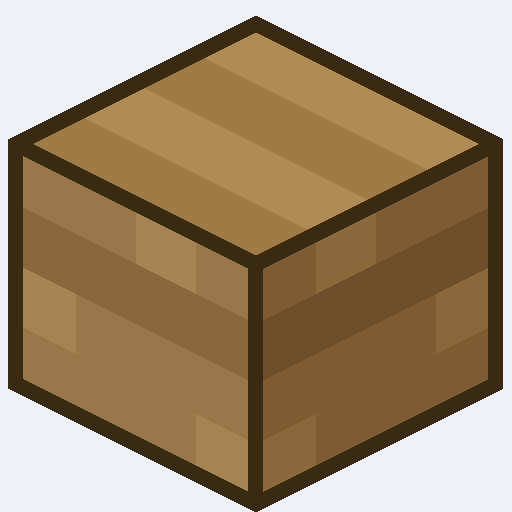
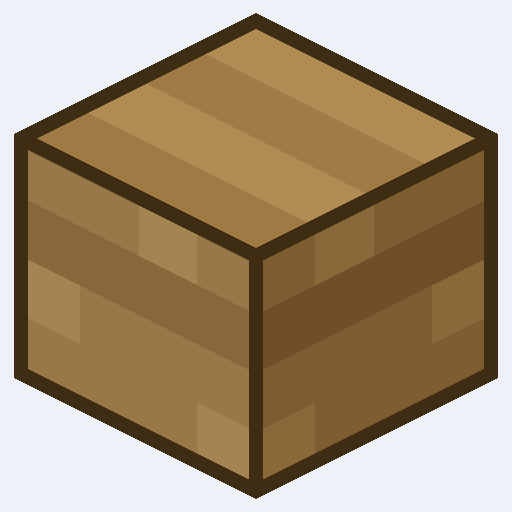
MATH-5: ikona PWA sedí na střed
Ikona na ploše telefonu byla u spodní hrany. Ze tří ikon byla špatná jedna,
a zrovna ta, kterou Android používá: maskovatelná měla kostku o 45 px nízko
(střed y = 301 místo 256). Ikony `any` vycentrované byly, takže na desktopu
ani na iOS se to neprojevilo.

Všechny tři se teď vykreslují z jedné kresby (scripts/cube.mjs, sdílená
i s faviconou) vycentrované na šestiúhelník kostky, takže se nemohou rozejít.
Maskovatelná má kostku 352 px z 512: systém ji obřezává podle svého tvaru
a zaručená je jen kružnice o průměru 80 % plátna, na větší kostku by maska
seřízla horní vrchol. `scripts/icon.mjs` to SVG vypíše, ať jde ikona kdykoli
vyrobit znovu.

Jméno cache service workeru je nově hash obsahu všech předcachovaných souborů,
ne jen jejich jmen. Ikony ani manifest hash v názvu nemají, takže po opravě
ikony by jméno cache zůstalo stejné, SW by se nepřeinstaloval a lidem by
zůstala stará ikona. Ikony v manifestu mají navíc ?v=2, aby si Chrome změny
všiml a ikonu na ploše obnovil.

diff --git a/dist/sw.js b/dist/sw.js
@@ -1,5 +1,5 @@
 /* Vygenerováno scripts/postbuild.mjs — needituj tady. */
-var CACHE = "matika-d0f874bcfe";
+var CACHE = "matika-8741609097";
 var ASSETS = ["./","index.html","manifest.json","icon-192.png","icon-512.png","icon-maskable-512.png","assets/baloo-2-latin-B_TVFhwJ.woff2","assets/baloo-2-latin-ext-Dz43yst_.woff2","assets/index-DqRJCjRI.js","assets/lexend-latin-ci0D1wrL.woff2","assets/lexend-latin-ext-B6JQhE1e.woff2","assets/style-DJ24IWdR.css"];
 
 self.addEventListener("install", function (e) {

diff --git a/README.md b/README.md
@@ -54,12 +54,27 @@ Appka jde přidat na plochu telefonu/tabletu a funguje **bez sítě**:
 
 - `manifest.json` — standalone režim, ikony 192/512 + maskable, obě orientace
 - `sw.js` — service worker, který si při první návštěvě uloží celou appku
-  (stránku, ikony, fonty). Jméno cache obsahuje hash `index.html`, takže
-  se po nasazení nové verze sama obnoví a stará cache se smaže. Precache jde
-  přes `cache: "reload"`, aby se neuložila verze z HTTP cache prohlížeče.
+  (stránku, ikony, fonty). Jméno cache je hash **obsahu** všech předcachovaných
+  souborů, takže se po nasazení nové verze sama obnoví a stará cache se smaže —
+  na jménech assetů by to nestačilo, ikony a manifest hash v názvu nemají.
+  Precache jde přes `cache: "reload"`, aby se neuložila verze z HTTP cache prohlížeče.
 - Fonty jsou **hostované u nás** (`fonts/*.woff2`, variabilní, podmnožiny
   latin + latin-ext kvůli diakritice) — offline tedy nechybí a nejde
   ani žádný požadavek na cizí server.
+
+### Ikony
+
+Favicona i všechny tři PNG ikony jsou ta samá dřevěná kostka z `scripts/cube.mjs`,
+aby se nemohly rozejít. PNG se vykreslují ze SVG, které vypíše `scripts/icon.mjs`
+(otevřít v prohlížeči na daný rozměr a uložit):
+
+```bash
+node scripts/icon.mjs icon-maskable-512.png > icon.svg
+```
+
+Kostka je vycentrovaná na svůj šestiúhelník. **Maskovatelná ikona** má kostku menší
+(352 px z 512): systém ji obřezává podle svého tvaru a zaručená je jen kružnice
+o průměru 80 % plátna, takže na větší kostku by kruhová maska seřízla horní vrchol.
 
 Verze pro Claude Artifact (`artifact/matika.html`) je jeden soubor s inlinovaným JS
 a CSS, bez obálky `<html>/<head>/<body>` — a fonty si bere z Google CDN, protože
@@ -84,8 +99,10 @@ fragment nemůže odkazovat na lokální soubory.
       public/              manifest.json a ikony
     dist/                  build — tohle se nasazuje (commituje se)
     artifact/matika.html   build pro publikování jako Claude Artifact (commituje se)
+    scripts/cube.mjs       dřevěná kostka pro faviconu i ikony PWA
+    scripts/icon.mjs       vypíše SVG jedné ikony PWA
     scripts/postbuild.mjs  favicona, sw.js s precache, artifact
-    tests/                 vitest — 40 testů logiky
+    tests/                 vitest — 67 testů logiky
     tasks/                 plány, průběh a lekce
 
 ## Sestavení a nasazení
